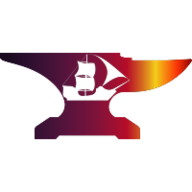
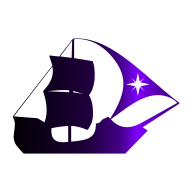
Rebrand

diff --git a/layouts/partials/head.html b/layouts/partials/head.html
@@ -2,15 +2,15 @@
     <meta http-equiv="Content-Type" content="text/html; charset=UTF-8" />
     <meta name="viewport" content="width=device-width, initial-scale=1">
     <meta name="author" content="Wil Stead" />
-    <title>NeverFoundry</title>
+    <title>Tavenem</title>
     <link rel="apple-touch-icon" sizes="180x180" href="/images/apple-touch-icon.png">
     <link rel="icon" type="image/png" sizes="32x32" href="/images/favicon-32x32.png">
     <link rel="icon" type="image/png" sizes="16x16" href="/images/favicon-16x16.png">
     <link rel="manifest" href="/site.webmanifest">
-    <link rel="mask-icon" href="/images/safari-pinned-tab.svg" color="#0058ff">
-    <meta name="apple-mobile-web-app-title" content="NeverFoundry">
-    <meta name="application-name" content="NeverFoundry">
-    <meta name="msapplication-TileColor" content="#0058ff">
-    <meta name="theme-color" content="#0058ff">
-    <style>body { text-align: center; padding: 150px; }h1 { font-size: 50px; }body { font: 20px Helvetica, sans-serif; color: #333; }article { display: block; width: 650px; margin: 0 auto; }a { color: #dc8100; text-decoration: none; }a:hover { color: #333; text-decoration: none; }</style>
+    <link rel="mask-icon" href="/images/safari-pinned-tab.svg" color="#7f00ff">
+    <meta name="apple-mobile-web-app-title" content="Tavenem">
+    <meta name="application-name" content="Tavenem">
+    <meta name="msapplication-TileColor" content="#f1e4ff">
+    <meta name="theme-color" content="#7f00ff">
+    <style>body { background-color: #333; color: white; text-align: center; padding: 150px; }h1 { font-size: 50px; }body { font: 20px Helvetica, sans-serif; color: #333; }article { display: block; width: 650px; margin: 0 auto; }a { color: #dc8100; text-decoration: none; }a:hover { color: #333; text-decoration: none; }</style>
 </head>

diff --git a/layouts/404.html b/layouts/404.html
@@ -3,7 +3,7 @@
 	<article>
         <h1>Not Found</h1>
         <p>Looks like there's nothing here.</p>
-        <p>If you followed a broken link to get here, please <a href="https://github.com/NeverFoundry/NeverFoundrycom/issues/new?body=Replace+this+text+with+a+description+of+the+location+of+the+broken+link+you+found">file a bug report</a>.</p>
+        <p>If you followed a broken link to get here, please <a href="https://github.com/Tavenem/Tavenemcom/issues/new?body=Replace+this+text+with+a+description+of+the+location+of+the+broken+link+you+found">file a bug report</a>.</p>
     </article>
 </main>
 {{ end }}

diff --git a/layouts/index.html b/layouts/index.html
@@ -1,8 +1,8 @@
 {{ define "main" }}
 <article>
-    <h1>NeverFoundry</h1>
+    <h1>Tavenem</h1>
     <div>
-        <p>NeverFoundry.com is still under development</p>
+        <p>Tavenem.com is still under development</p>
         <p>Check back soon!</p>
     </div>
 </article>

diff --git a/README.md b/README.md
@@ -1,3 +1,3 @@
-# NeverFoundry.com
+Tavenem.com
 
-This is the repository for the [NeverFoundry website](https://neverfoundry.com/). ![Build and deploy](https://github.com/NeverFoundry/NeverFoundrycom/workflows/Build%20and%20deploy%20the%20site/badge.svg)
+This is the repository for the [Tavenem website](https://tavenem.com/). ![Build and deploy](https://github.com/Tavenem/Tavenemcom/workflows/Build%20and%20deploy%20the%20site/badge.svg)

diff --git a/content/_index.md b/content/_index.md
@@ -1,3 +1,3 @@
 ---
-title: NeverFoundry
+title: Tavenem
 ---
